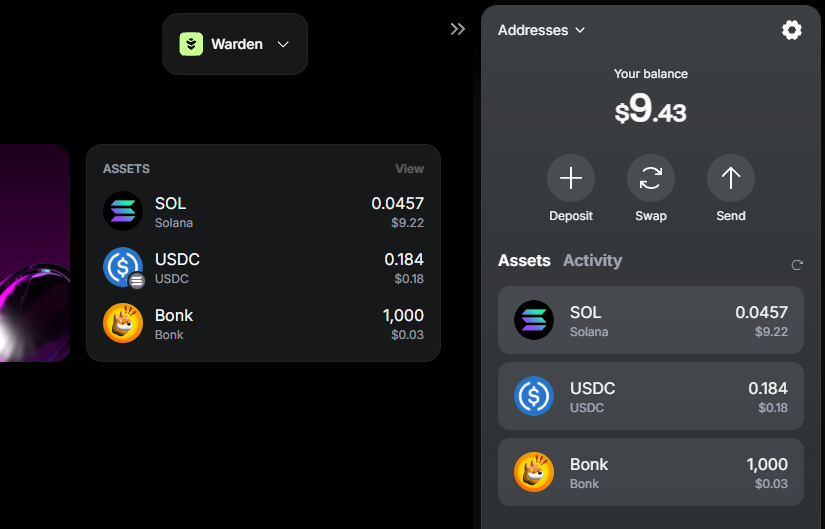
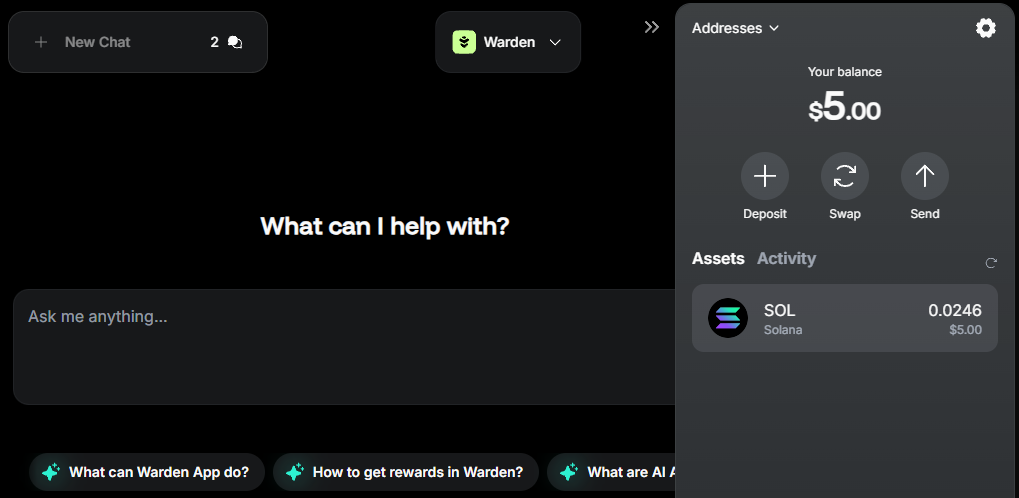
updated images again, added info on agents, restructured the docs

diff --git a/docs/help-center/docusaurus.config.ts b/docs/help-center/docusaurus.config.ts
@@ -73,16 +73,16 @@ const config: Config = {
             },
             items: [
                         {
+                         type: "docSidebar",
+                         sidebarId: "wardenapp",
+                         label: "Warden",
+                         position: "left",
+                        },
+                        {
                             type: "docSidebar",
                             sidebarId: "spaceward",
                             label: "SpaceWard",
                             position: "left",
-                        },
-                        {
-                         type: "docSidebar",
-                         sidebarId: "wardenapp",
-                         label: "Warden App",
-                         position: "left",
                         },
                 {
                     href: "https://discord.com/invite/warden",

diff --git a/docs/help-center/docs/warden-app/manage-assets.md b/docs/help-center/docs/warden-app/manage-assets.md
@@ -10,20 +10,24 @@ This guide explains how to view, deposit, send, or swap your **assets** in the W
 
 ## View the balance
 
-You can access your balance and a detailed breakdown of assets in the [wallet](manage-your-wallet).
-
-Just log in to the [Warden App](https://app.wardenprotocol.org) and click the wallet icon in the top right.
+You can access your balance and a detailed breakdown of assets in the [wallet](manage-your-wallet). Simply log in to the [Warden App](https://app.wardenprotocol.org) and click the wallet icon in the top right:
 
 ![Access your wallet in the Warden App](../../static/img/warden-app/manage-your-wallet-1.png)
 
+You'll see your assets and activity:
+
+![Access your wallet in the Warden App](../../static/img/warden-app/manage-your-wallet-2.png)
+
 ## Deposit assets
 
-To deposit an asset, take the following steps:
+To start transacting on a chain, fund your wallet with its native coin—for example, **SOL** on **Solana**. Then you can receive other tokens available on the network.
+
+To deposit an asset to your wallet, take the following steps:
 
 1. Log in: 👉 [Warden App](https://app.wardenprotocol.org)
 2. Click the wallet icon in the top-right corner.
 3. Select **Deposit**.
-4. Select the desired network.
+4. Select one of the [supported networks](introduction#supported-networks).
 5. Select one of these options:
    - **Pay with card**: Pay through MoonPay.
    - **Transfer from wallet**: Link a Web3 wallet and deposit funds from it. 
@@ -33,6 +37,7 @@ To deposit an asset, take the following steps:
 To view and unlink your linked wallets, see the [account settings](manage-your-wallet#configure-the-wallet).
 :::
 
+![Access your wallet in the Warden App](../../static/img/warden-app/manage-your-wallet-1.png)
 ![Deposit assets in the Warden App](../../static/img/warden-app/manage-assets-1.png)
 
 ## Send or swap assets
@@ -42,12 +47,12 @@ In the Warden App, you can send or swap assets using simple **chat commands**.
 Make sure your [wallet is funded](#deposit-assets) and follow these steps:
 
 1. Log in: 👉 [Warden App](https://app.wardenprotocol.org)
-2. In the chat box, ask the [AI assistant](use-the-ai-assistant) to **send** or **swap** an asset. Alternatively, you can initiate a transfer by clicking **Send** in your wallet.
+2. In the chat box, ask the [AI assistant](use-the-chat) to **send** or **swap** an asset. Alternatively, you can initiate a transfer by clicking **Send** in your wallet.
 4. Provide the required details and confirm the transaction in the chat.
 5. The assistant will share the transaction details with you. You can also find them anytime in your [activity history](manage-your-wallet#view-the-balance--activity).
 
 :::tip
-When specifying the recipient, you can refer to your [favorite addresses](manage-your-wallet#configure-the-wallet) by name.
+When specifying the recipient, you can refer to your [whitelisted addresses](manage-your-wallet#configure-the-wallet) by name.
 :::
 
-![Send assets in the Warden App](../../static/img/warden-app/manage-assets-2.png)
+![Send assets in the Warden App](../../static/img/warden-app/manage-assets-3.png)

diff --git a/docs/help-center/docs/warden-app/use-ai-agents.md b/docs/help-center/docs/warden-app/use-ai-agents.md
@@ -2,10 +2,59 @@
 sidebar_position: 6
 ---
 
-# Use AI agents
+# Use AI Agents
 
-*Coming soon*
+## Overview
 
-Warden App supports managing, swapping, and earning with **AI Agents** through a simple chat interface.
+Unlock the full potential of Warden with **AI Agents**! They allow you to swap, bridge, research, and much more through a simple chat interface.
 
-Soon, we'll be launching the **Agent Hub**—your gateway to exploring a variety of specialized Agents.
+In the sections below, you'll find the list of available Agents—and more are coming soon!
+
+## Access Agents
+
+You can explore and select Agents in the **Agent Hub**:
+
+1. Log in: 👉 [Warden App](https://app.wardenprotocol.org)
+2. Click the **Agent Hub** icon in the top-right corner of the screen.
+3. If needed, review and accept the legal terms.
+4. After selecting an Agent, you'll be forwarded to the chat.
+
+![The Agent Hub in the Warden App](../../static/img/warden-app/use-ai-agents-1.png)
+
+Alternatively, you access Agents directly from the [chat screen](use-the-chat). Use the drop-down menu at the top to switch quickly between Agents and the default Warden AI assistant:
+
+![Manage AI chats the Warden App](../../static/img/warden-app/use-the-chat-2.png)
+
+## Available Agents
+
+### Uniswap Trading API
+
+The **Uniswap Trading API** allows swapping any token through Uniswap—fast and secure. Swaps are fully non-custodial: they're handled directly from your wallet without any third party holding your assets.
+
+Supported networks:
+
+- **Ethereum**
+- **Base**
+
+### Messari Deep Research
+
+Use **Messari Deep Research** to research any blockchain project with very detailed real-time insight.
+
+### Jupiter Agent
+
+**Jupiter** is the only Agent you need to swap any **Solana** tokens.
+
+### Coming soon
+
+The Agent lineup keeps growing. Here's what to expect next:
+
+- **DeBridge**
+- **ApexLiquid**
+- **Intelligent DCA**
+- **Levva**
+- **KaiBot**
+- **The Quantfather**
+- **Venice**
+- **WachAI**
+- **Warden Bufett**
+- **The Butler**

diff --git a/docs/help-center/docs/warden-app/use-the-chat.md b/docs/help-center/docs/warden-app/use-the-chat.md
@@ -1,0 +1,44 @@
+---
+sidebar_position: 3
+---
+
+# Use the chat
+
+## Overview
+
+The **AI-powered chat** is the primary way to interact with the Warden App.
+
+Use simple chat commands to send and swap your assets, check your balance, and ask anything about the app, Warden Protocol, or the crypto market.
+
+You can either start chatting with the default **Warden AI assistant** or select one of the various available [AI Agents](use-ai-agents).
+
+## Chat with Warden
+
+Once you log in to the [Warden App](https://app.wardenprotocol.org), you'll see a chat with the **Warden AI assistant**.
+
+Just type your request in the chat box. For example, to perform a transaction, [fund your wallet](manage-assets#deposit-assets) and ask Warden to [send or swap an asset](manage-assets#send-or-swap-assets):
+
+![Ask the Warden AI assistant to swap an asset](../../static/img/warden-app/use-the-chat-1.png)
+
+## Manage chats
+
+You can easily manage your chats:
+
+- To create more chats, click **New chat** in the top-left corner on the screen.
+- To return to a previously created conversation, click the chat icon next to **New Chat**.
+
+![Manage AI chats in the Warden App](../../static/img/warden-app/use-the-chat-2.png)
+
+## Select an AI Agent
+
+In addition to the Warden assistant, you can use the various **AI Agents** available in the app. Learn more: [Use AI Agents](use-ai-agents).
+
+Explore Agents in the [Agent Hub](use-ai-agents#access-agents) or switch quickly between the Warden assistant and Agents directly from the chat screen. Simply select an Agent from the drop-down menu at the top:
+
+![Manage AI chats the Warden App](../../static/img/warden-app/use-the-chat-3.png)
+
+## Explore the dashboard
+
+Below the chat, you can find a useful **dashboard** with prompt suggestions, an overview of your assets, and more:
+
+![The dashboard on the chat screen in Warden](../../static/img/warden-app/use-the-chat-4.png)

diff --git a/docs/help-center/docs/warden-app/quick-start.md b/docs/help-center/docs/warden-app/quick-start.md
@@ -8,13 +8,14 @@ In the Warden App, you can send or swap assets using simple **chat commands**.
 
 The following is a brief overview explaining how to get started and experience this powerful feature in action. For more details, follow the provided links to step-by-step guides.
 
-1. Log in: 👉 [Warden App](https://app.wardenprotocol.org)
-2. 👉 [Deposit assets](manage-assets#deposit-assets): Click the wallet icon in the top right, select **Deposit**, and fund your wallet with **SOL**.
-3. 👉 [Swap assets](manage-assets#send-or-swap-assets): In the chat box, ask the [AI assistant](use-the-ai-assistant) to swap **0.001 SOL** for **USDC**, or specify a different token and amount.
+1. Sign in: 👉 [Warden App](https://app.wardenprotocol.org). Use your email or other available options.
+
+2. 👉 [Deposit assets](manage-assets#deposit-assets): Click the wallet icon at the top right, select **Deposit**, then **Solana**, and fund your wallet with **SOL**. Alternatively, use any other [supported chain](introduction#supported-networks).
+
+![Access your wallet in the Warden App](../../static/img/warden-app/manage-your-wallet-1.png)
+
+3. 👉 [Swap assets](manage-assets#send-or-swap-assets): In the [chat box](use-the-chat), ask the AI assistant to swap **0.001 SOL** for **USDC**, or specify a different token and amount.
+
 4. Confirm the transaction in the chat. The AI will share the transaction details with you.
 
 Congratulations! You've just performed your first transaction with the Warden App.
-
-:::important
-At the moment, the Warden App supports the **Solana** network. You can fund your wallet with **SOL** and receive other tokens available on Solana. More networks are coming soon—stay tuned!
-:::

diff --git a/docs/help-center/docs/warden-app/create-your-coin.md b/docs/help-center/docs/warden-app/create-your-coin.md
@@ -4,12 +4,30 @@ sidebar_position: 7
 
 # Create your coin
 
-In the Warden App, you can create and grow **your own coin** to compete in the **PUMP Leaderboard** and **earn rewards**. The app is part of an [ongoing rewards campaign](https://wardenprotocol.org/blog/great-pump-off), with up to **2.5%** of the **WARD token** supply (**$1M+** in current value) allocated to participants.
+## Overview
 
-To get started, click the coin icon in the top right, then create and name your coin. There are multiple things you can do to increase its value:
+In the Warden App, you can create and grow **your own coin** to compete in the **PUMP Leaderboard** and **earn rewards**.
+
+## Name your coin
+
+To get started, click the **Rewards** icon in the top right:
+
+![Create and grow your coin in the Warden App](../../static/img/warden-app/create-your-coin-1.png)
+
+Then simply name your coin. Congratulations! Now you can start earning rewards.
+
+![Grow your coin in the Warden App](../../static/img/warden-app/create-your-coin-2.png)
+
+## Pump your coin
+
+There are multiple things you can do to increase the value of your coin:
 
 - Complete daily and weekly tasks
 - Play Flappy Yapy and other games
 - Invite your friends
 
-![Create and grow your coin in the Warden App](../../static/img/warden-app/create-your-coin.png)
+## Earn rewards
+
+Warden is part of an ongoing **rewards campaign**, with up to **2.5%** of the [WARD token](https://docs.wardenprotocol.org/tokens/ward-token/ward) supply (**$1M+** in current value) allocated to participants.
+
+Learn more about the rewards campaign: 👉 [The Great Pump Off](https://wardenprotocol.org/blog/great-pump-off)

diff --git a/docs/help-center/docs/warden-app/introduction.md b/docs/help-center/docs/warden-app/introduction.md
@@ -30,7 +30,7 @@ These components work together to create a powerful tool for you to navigate the
 
 Within the Warden App, you can do the following:
 
-- [Use the AI assistant](use-the-ai-assistant)
+- [Use the chat](use-the-chat)
 - [Manage your wallet](manage-your-wallet)
 - [Manage assets](manage-assets)
 - [Use AI agents](use-ai-agents)
@@ -38,8 +38,14 @@ Within the Warden App, you can do the following:
 
 ## Supported networks
 
-At the moment, the Warden App supports the **Solana** network.
+At the moment, the Warden App supports the following chains:
 
-You can fund your wallet with **SOL** and receive other tokens available on Solana.
+- **Ethereum**
+- **Solana**
+- **Base**
 
 More networks are coming soon—stay tuned!
+
+:::tip
+To start transacting on a chain [fund your wallet](manage-assets#deposit-assets) with its native coin—for example, **SOL** on **Solana**. Then you can receive other tokens available on the network.
+:::

diff --git a/docs/help-center/docs/warden-app/manage-your-wallet.md b/docs/help-center/docs/warden-app/manage-your-wallet.md
@@ -34,7 +34,7 @@ To configure your account, take the following steps:
 1. Click the wallet icon in the top-right corner.
 2. Click the gear icon and configure the following options:
    - **Linked Wallets**: View and unlink Web3 wallets you've [deposited assets](manage-assets#deposit-assets) from.
-   - **Favorite Addresses**: Whitelist addresses to reference them by name in the [AI chat](use-the-ai-assistant).
+   - **Addresses**: Whitelist addresses to reference them by name in the [AI chat](use-the-chat).
    - **Security** Manage your private keys and passkeys.
    - **Login**: Add an authentication method: **Email**, **Google**, **Twitter**, or **Telegram**.
 
